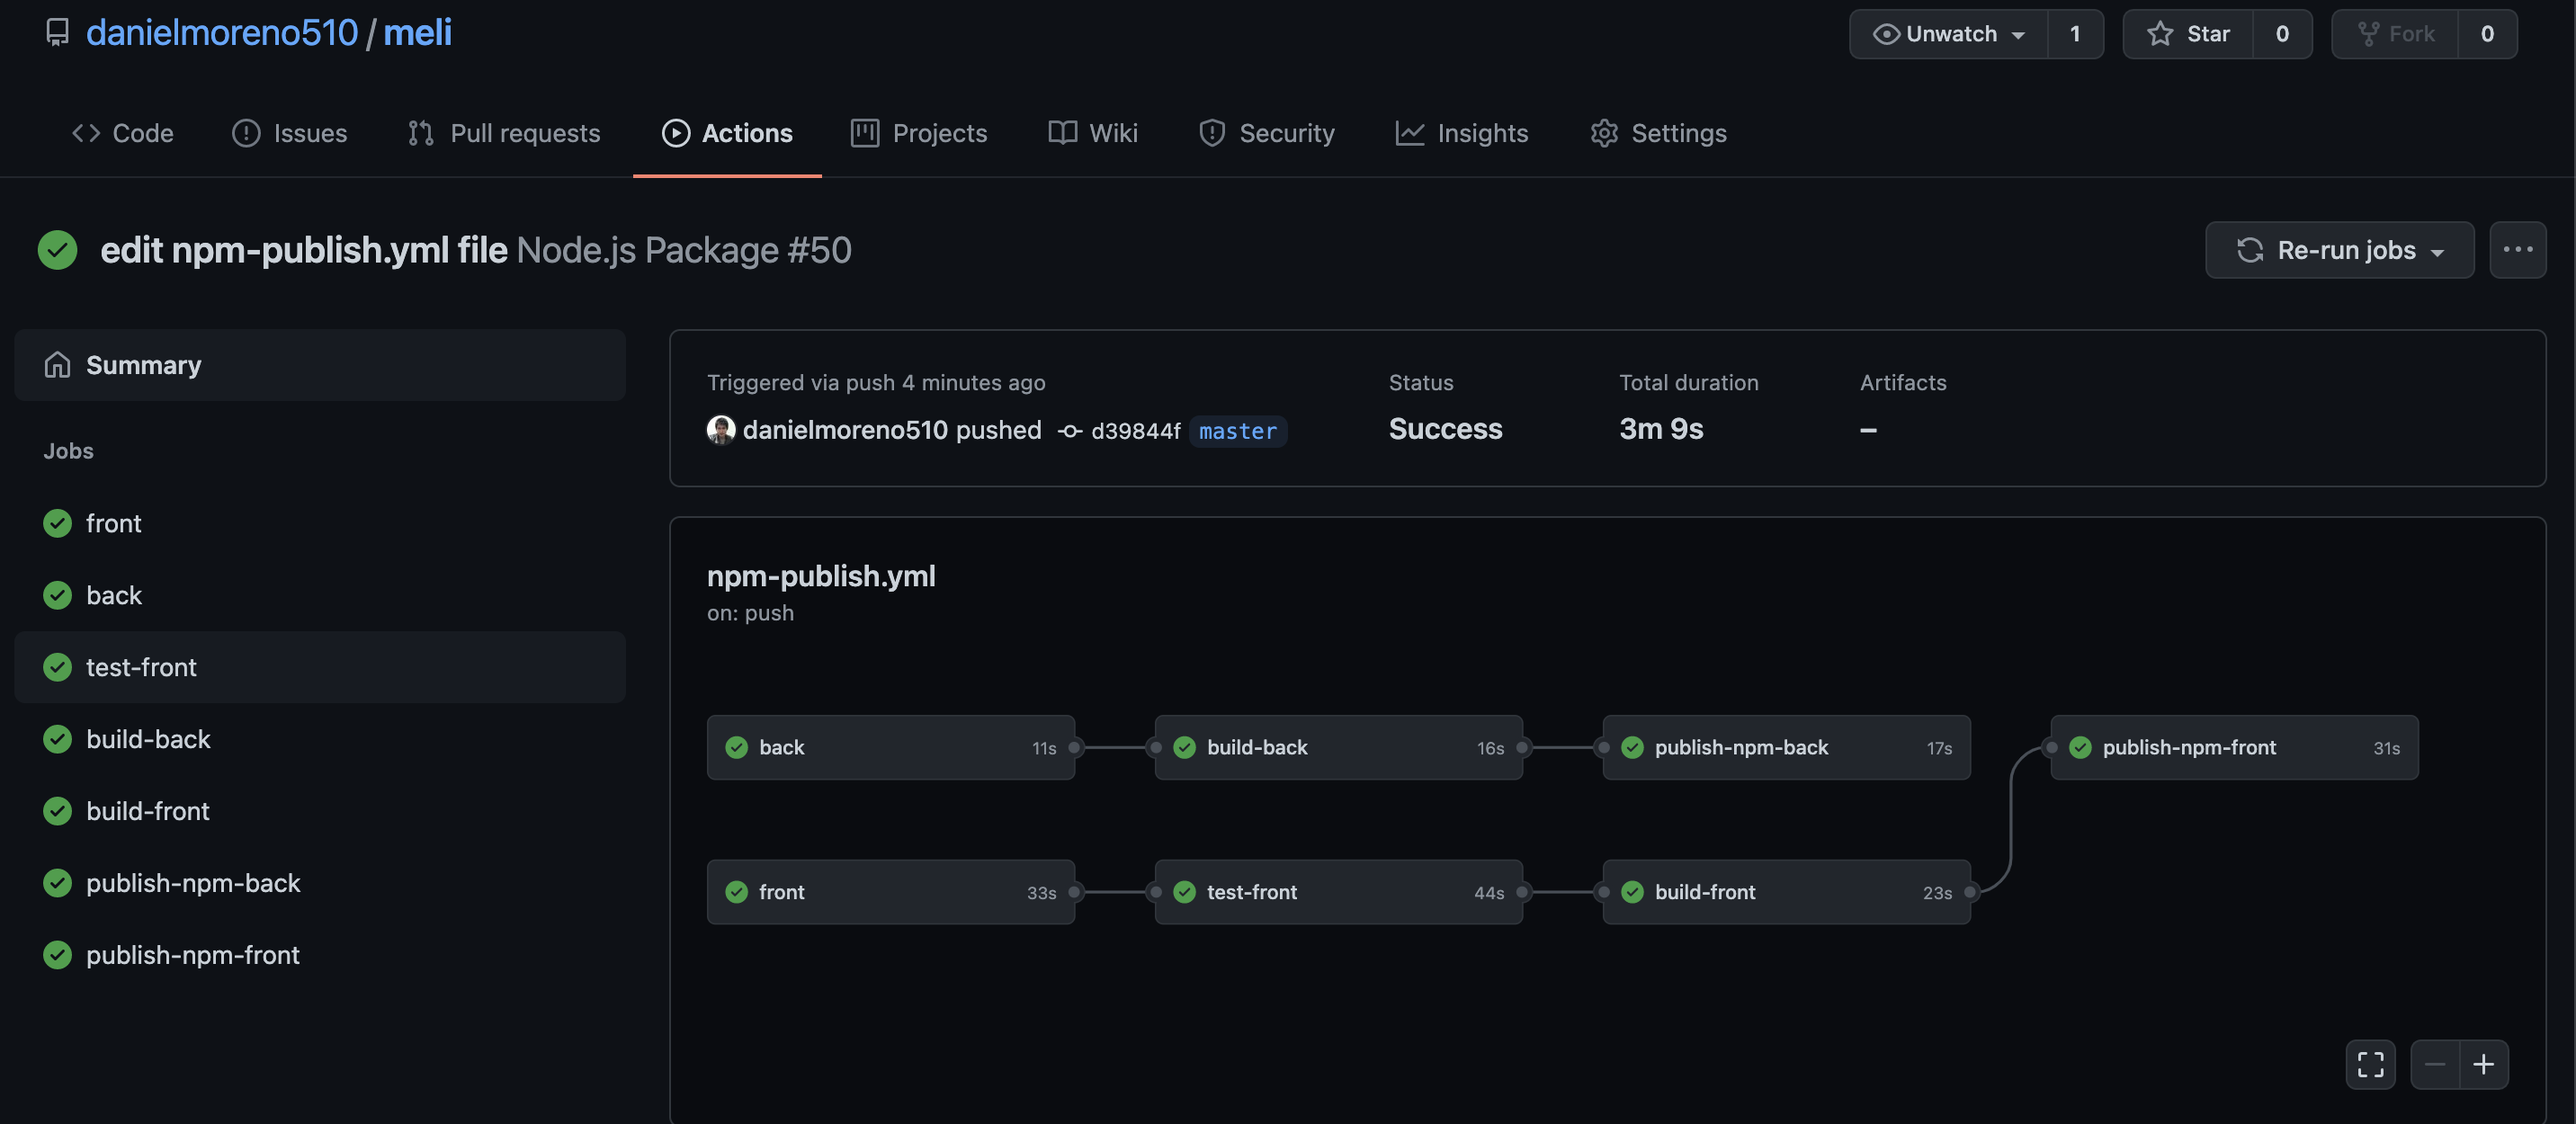
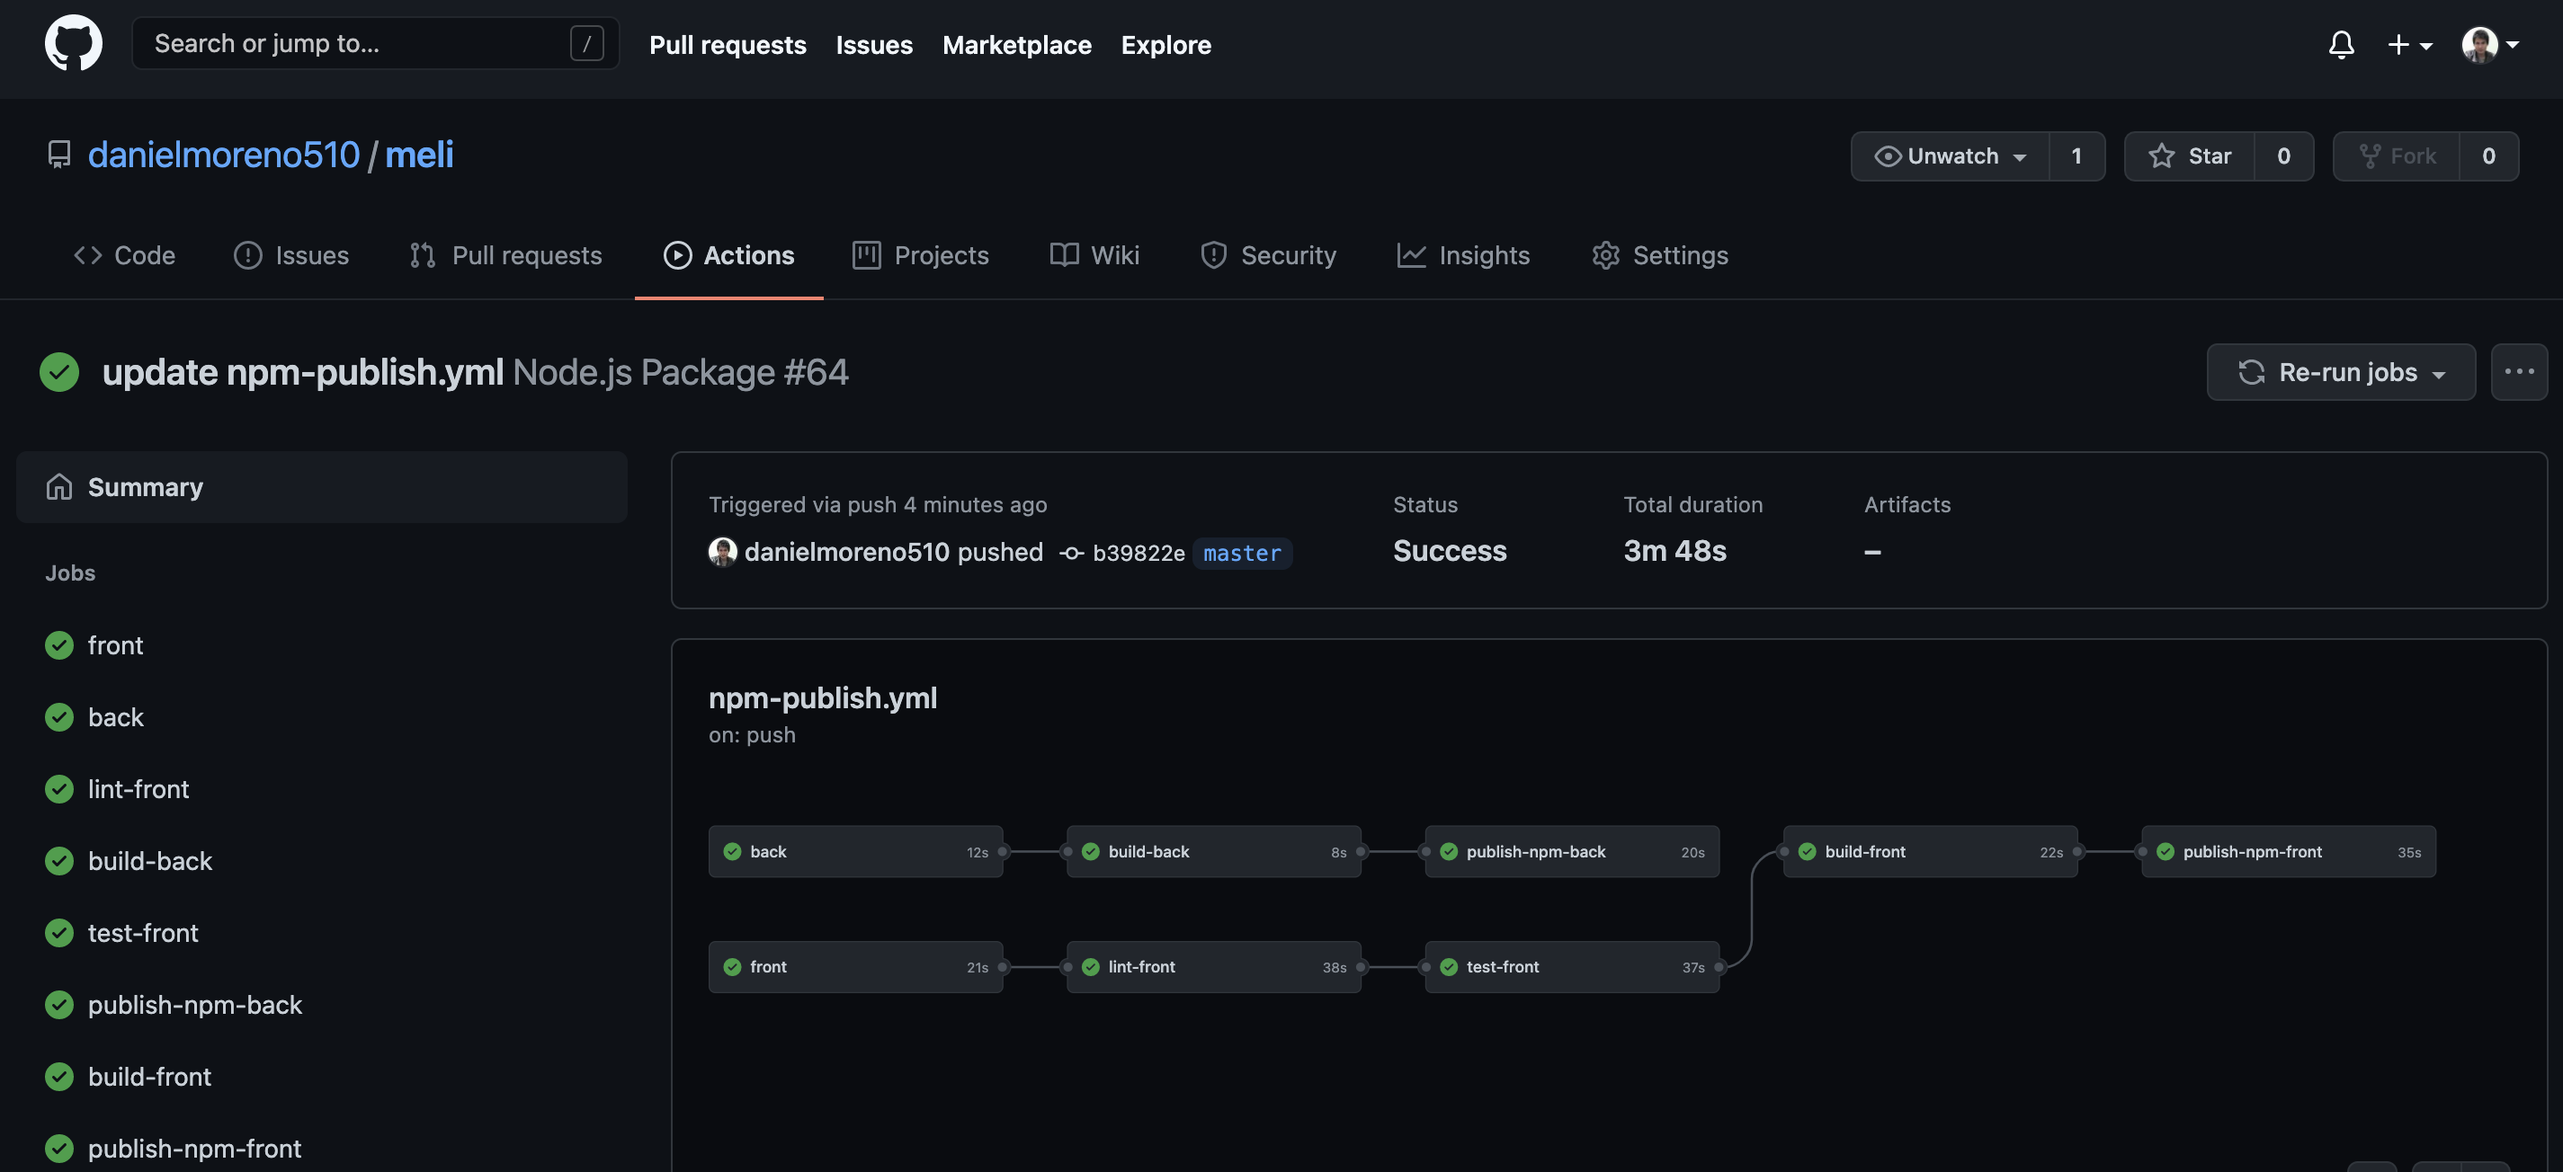
update npm-publish.yml

diff --git a/README.md b/README.md
@@ -44,6 +44,7 @@ This project has continuous integration through `GitHub Actions`, this is execut
 ### Pipelines
 
 #### Front-end:
+- `lint`
 - `test`
 - `build`
 - `publish`
